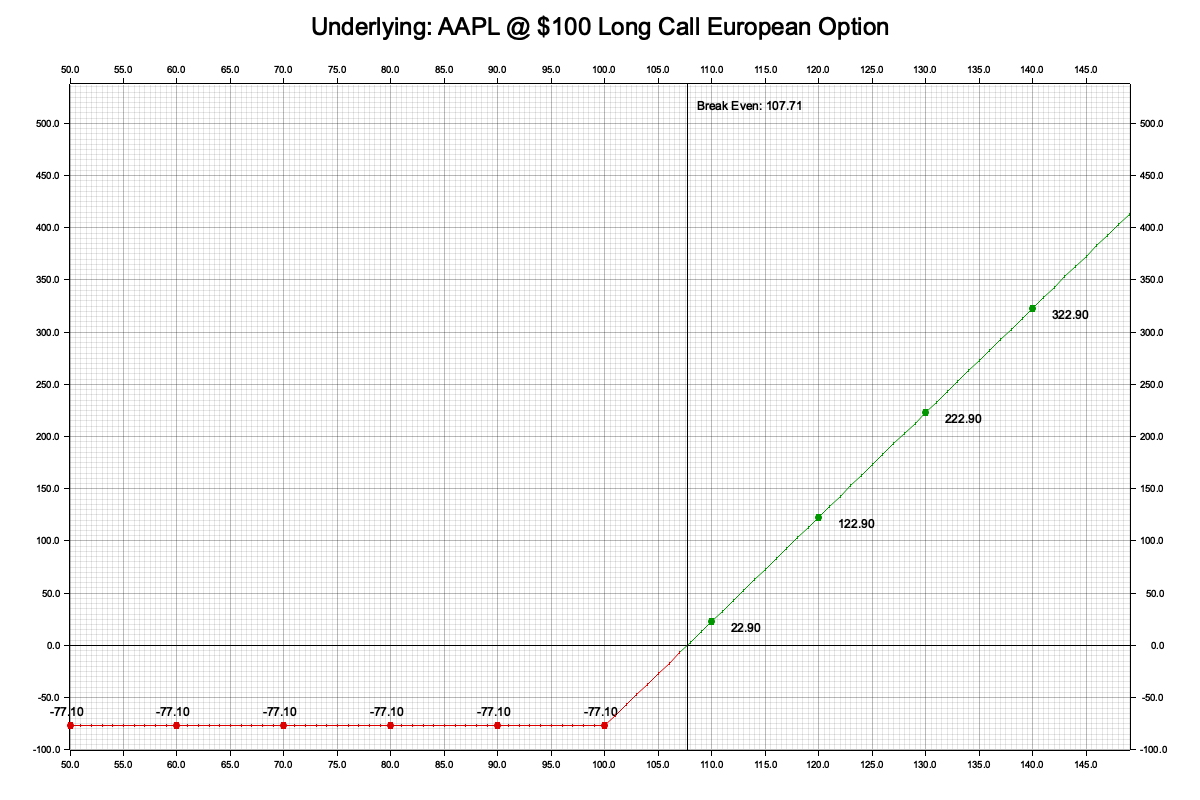
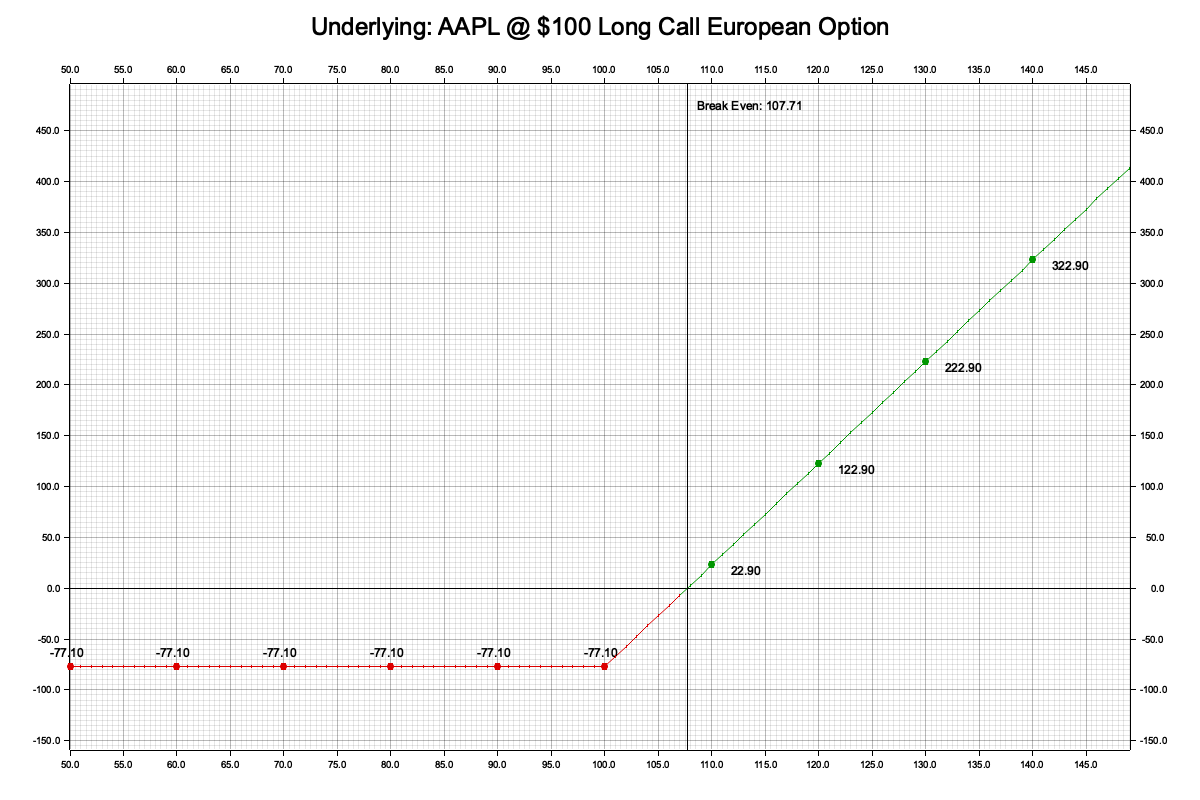
Adjust PNL computation and refine chart rendering
Refactor points of max and min PNL adjustments to include a margin for better scale visualization. Clean up redundant comments and ensure proper formatting of code blocks for improved readability.

Changed region(s): [[0.0308, 0.5, 0.9867, 0.9375], [0.0308, 0.0938, 0.9867, 0.5]]

diff --git a/src/model/position.rs b/src/model/position.rs
@@ -209,8 +209,13 @@ impl Graph for Position {
         // Determine the range for the X and Y axes
         let max_price = data.iter().cloned().fold(f64::NEG_INFINITY, f64::max);
         let min_price = data.iter().cloned().fold(f64::INFINITY, f64::min);
-        let max_pnl_value = pnl_values.iter().cloned().fold(f64::NEG_INFINITY, f64::max) * 1.3;
-        let min_pnl_value = pnl_values.iter().cloned().fold(f64::INFINITY, f64::min) * 1.3;
+        let max_pnl = pnl_values.iter().cloned().fold(f64::NEG_INFINITY, f64::max);
+        let min_pnl = pnl_values.iter().cloned().fold(f64::INFINITY, f64::min);
+        let adjusted_max_pnl = (max_pnl * 1.2 - max_pnl).abs();
+        let adjusted_min_pnl = (min_pnl * 1.2 - min_pnl).abs();
+        let margin_value = std::cmp::max(adjusted_max_pnl as i64, adjusted_min_pnl as i64);
+        let max_pnl_value = max_pnl + margin_value as f64;
+        let min_pnl_value = min_pnl - margin_value as f64;
 
         let title: String = self.title();
         let break_even_price = self.break_even(); // Get the break-even price
@@ -234,17 +239,15 @@ impl Graph for Position {
             &BLACK,
         ))?;
 
-        // // Draw the line series representing PNL values
-        // chart.draw_series(LineSeries::new(
-        //     data.iter().cloned().zip(pnl_values.iter().cloned()),
-        //     &BLUE,
-        // ))?;
-
         // Iterate through the data and PNL values to draw the line segments
         let mut last_point = None;
         for (&price, &pnl_value) in data.iter().zip(pnl_values.iter()) {
             if let Some((last_price, last_pnl)) = last_point {
-                let color = if pnl_value >= 0.0 { &dark_green } else { &dark_red };
+                let color = if pnl_value >= 0.0 {
+                    &dark_green
+                } else {
+                    &dark_red
+                };
 
                 chart.draw_series(LineSeries::new(
                     vec![(last_price, last_pnl), (price, pnl_value)],
@@ -276,10 +279,10 @@ impl Graph for Position {
             &|coord, _size, _style| {
                 EmptyElement::at(coord)
                     + Text::new(
-                    format!("Break Even: {:.2}", break_even_price),
-                    break_even_label_position, // Position the text just above the top of the line
-                    ("sans-serif", 15).into_font(),
-                )
+                        format!("Break Even: {:.2}", break_even_price),
+                        break_even_label_position, // Position the text just above the top of the line
+                        ("sans-serif", 15).into_font(),
+                    )
             },
         ))?;
 
@@ -300,16 +303,18 @@ impl Graph for Position {
                     if i % 10 == 0 {
                         element
                             + Text::new(
-                            format!("{:.2}", value),
-                            (label_offset.0, label_offset.1),
-                            ("sans-serif", 15).into_font(),
-                        )
+                                format!("{:.2}", value),
+                                (label_offset.0, label_offset.1),
+                                ("sans-serif", 15).into_font(),
+                            )
                     } else {
-                        EmptyElement::at(coord) + Circle::new((0, 0), 0, style.filled()) + Text::new(
-                            String::new(),
-                            (label_offset.0, label_offset.1),
-                            ("sans-serif", 15).into_font(),
-                        )
+                        EmptyElement::at(coord)
+                            + Circle::new((0, 0), 0, style.filled())
+                            + Text::new(
+                                String::new(),
+                                (label_offset.0, label_offset.1),
+                                ("sans-serif", 15).into_font(),
+                            )
                     }
                 },
             ))?;
